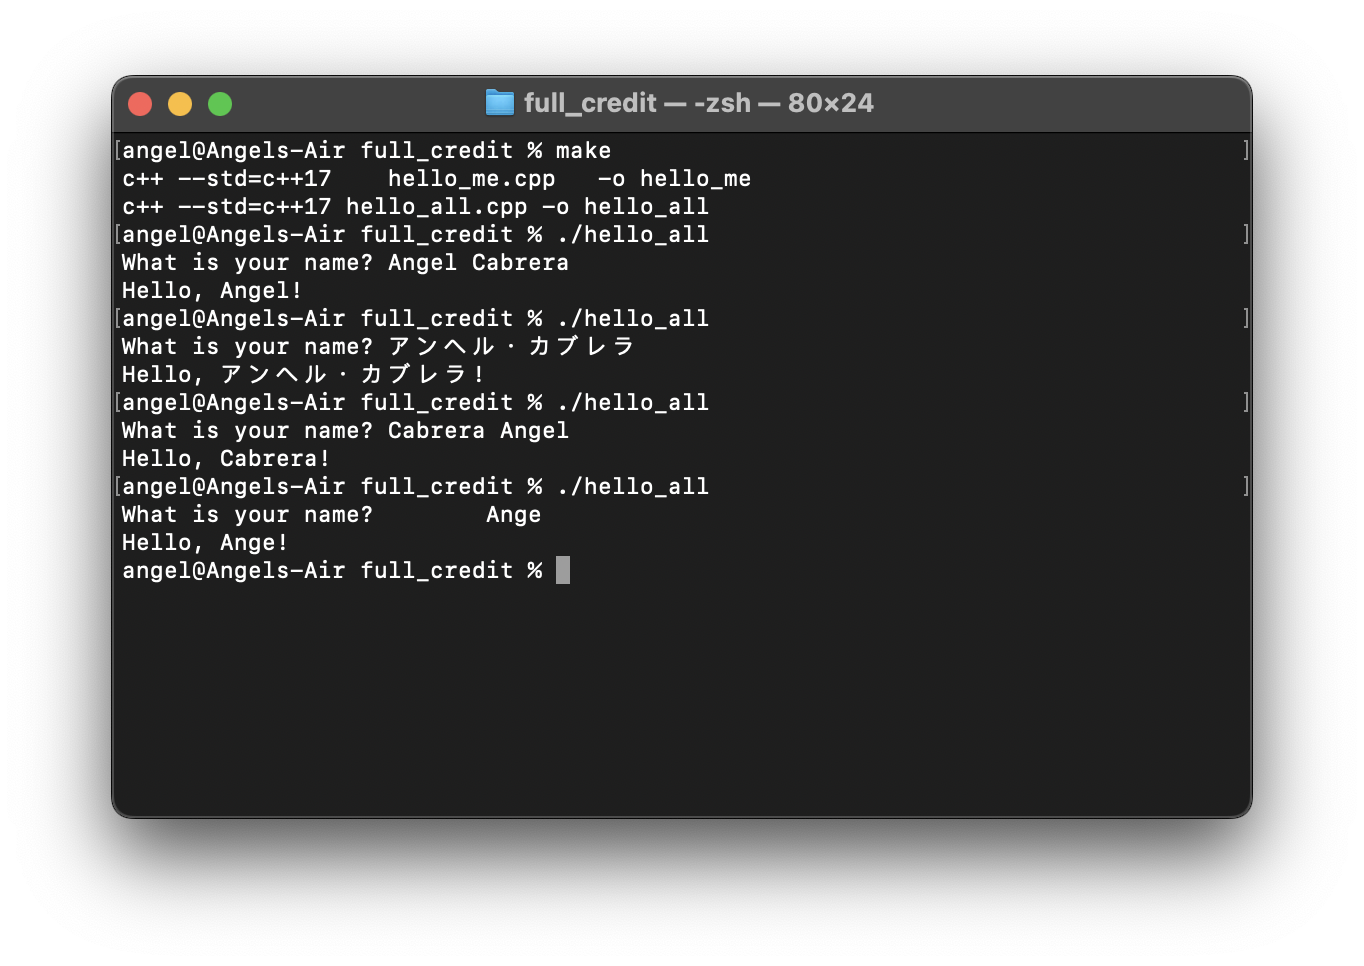
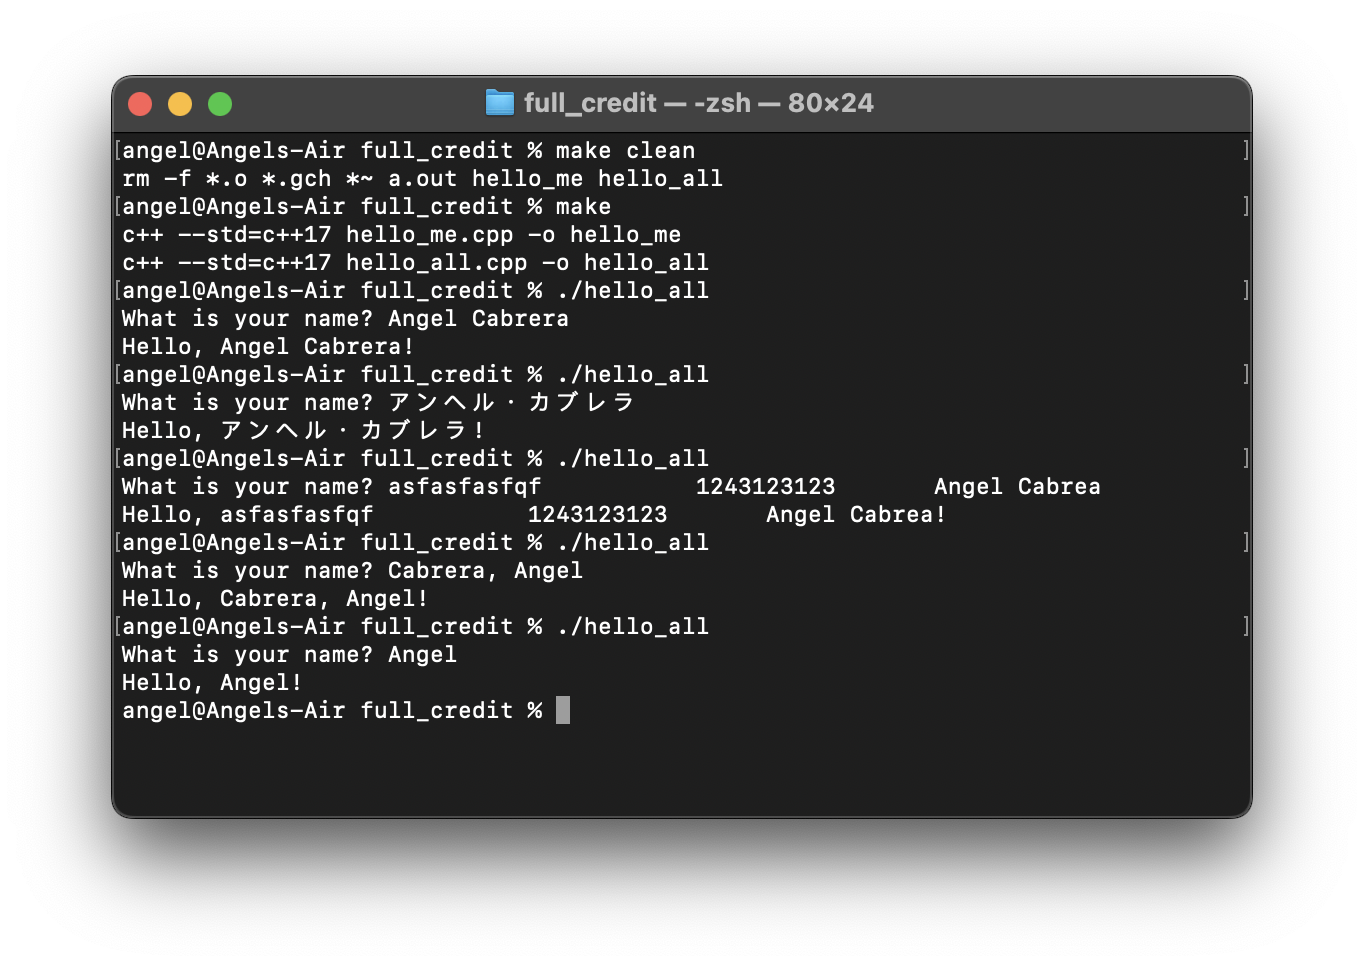
P08 full credit

diff --git a/P08/full_credit/hello_all.cpp b/P08/full_credit/hello_all.cpp
@@ -4,6 +4,7 @@ int main() {
     std::string name;
     
     std::cout << "What is your name? ";
-    std::cin >> name;
+    // std::cin >> name;
+    std::getline(std::cin, name);
     std::cout << "Hello, " << name << "!" << '\n';
 }
